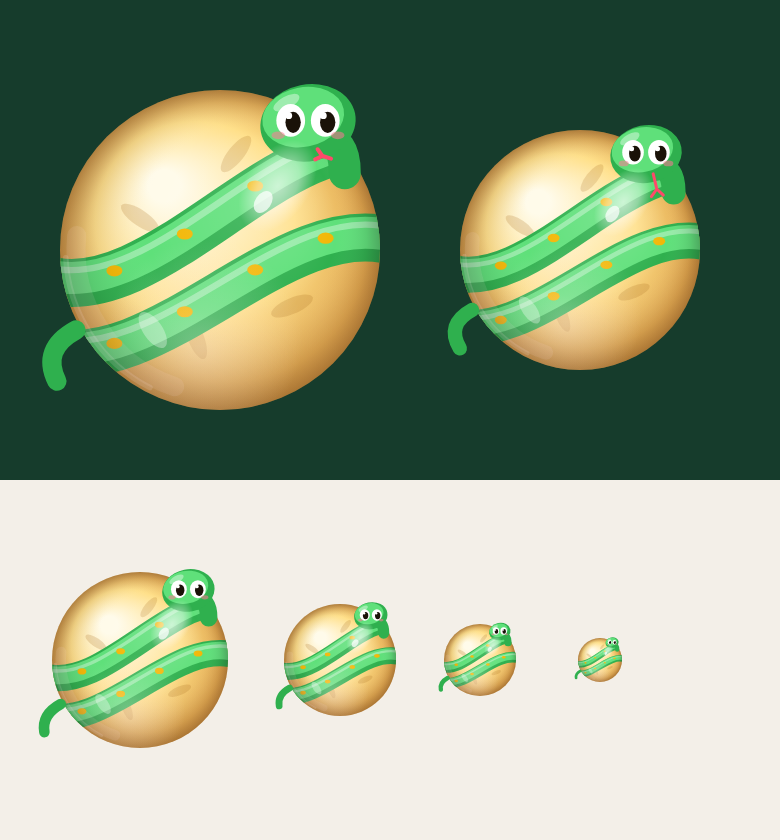
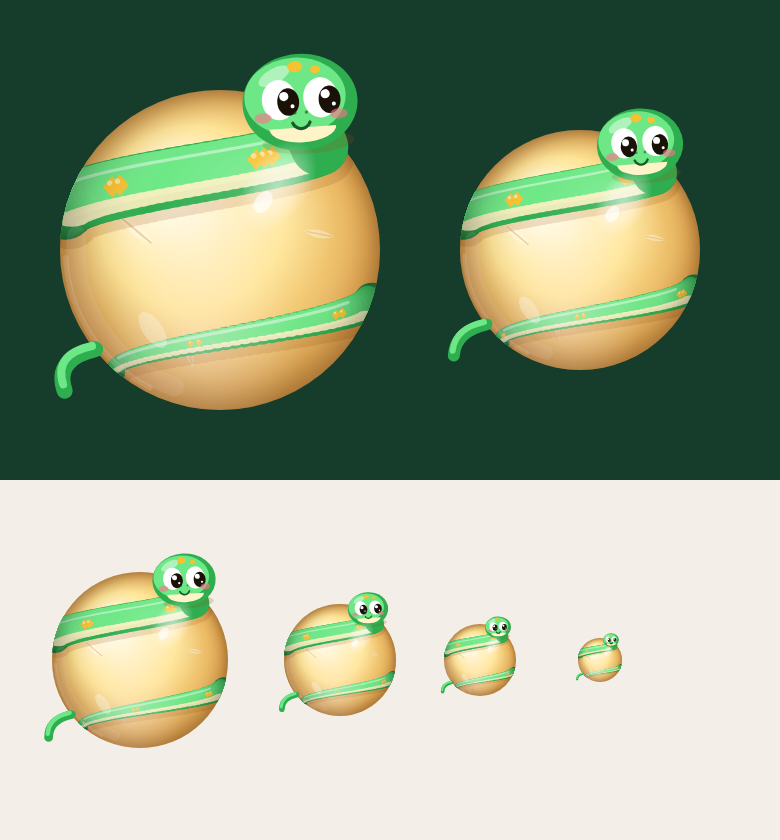
Monde 6 : ballon Bébé serpent v2 (vraie spirale autour du ballon, corps qui s'affine, ventre, écailles qui glissent, tête posée, queue qui frétille)
Claude-Session: https://claude.ai/code/session_01NEC92qwxswvqqiEaD4C6hh

diff --git a/index.html b/index.html
@@ -14859,26 +14859,63 @@ const PERROQUET_SKIN = { id: 'perroquet', name: 'Le Perroquet', secret: true, du
     c.save(); c.translate(px, py); if (Math.sin(a + Math.PI / 2) < 0) c.scale(-1, 1); ara(1, flap, 1, true); c.restore(); }
 } };
 SKINS.push(PERROQUET_SKIN);
-/* ballon secret du Monde 6 : le Bébé serpent (enroulé autour du ballon, la tête dépasse en haut ; style du jeu) */
-const BEBE_SERPENT_SKIN = { id: 'bebe_serpent', name: 'Le Bébé serpent', secret: true, dust: '#7ae08a', gloss: .5,
-  paint: (c, r, t = 0) => {
-    const g = c.createRadialGradient(-r * .35, -r * .4, r * .1, 0, 0, r * 1.05); g.addColorStop(0, '#fffbea'); g.addColorStop(.55, '#ffe08a'); g.addColorStop(1, '#d8963a'); c.fillStyle = g; c.beginPath(); c.arc(0, 0, r, 0, TAU); c.fill();
+/* ballon secret du Monde 6 : le Bébé serpent. Son corps est une vraie spirale autour de la sphère : il passe derrière le bord du ballon
+   et revient plus haut, puis sa tête se pose sur le dessus. Écailles qui glissent, corps qui respire, yeux qui regardent autour. */
+const BEBE_SERPENT_SKIN = (() => {
+  const ss = k => { k = Math.max(0, Math.min(1, k)); return k * k * (3 - 2 * k); };
+  const mixc = (a, b, k) => { const A = parseInt(a.slice(1), 16), B = parseInt(b.slice(1), 16), m = sh => Math.round((A >> sh & 255) + ((B >> sh & 255) - (A >> sh & 255)) * k); return `rgb(${m(16)},${m(8)},${m(0)})`; };
+  const G0 = '#6ee886', G1 = '#2fae50', G2 = '#1a7a36';
+  /* points du corps : de la queue (en bas devant) à la nuque (en haut à droite devant) */
+  function body(r, t) { const pts = [], N = 150, T = 1.62;
+    for (let i = 0; i <= N; i++) { const s = i / N, lat = -1.12 + s * 1.82, lon = .95 - (1 - s) * T * TAU;
+      const cl = Math.cos(lat), x = r * cl * Math.sin(lon), y = -r * Math.sin(lat), z = cl * Math.cos(lon), th = r * (.04 + .14 * ss(s * 1.15) + .015 * Math.sin(t * .06 - s * 6) * s); /* il respire : une petite vague parcourt le corps */
+      pts.push({ x, y, z, th, s }); }
+    return pts; }
+  const paint = (c, r, t = 0) => {
+    /* le ballon : crème doré, petites feuilles claires bien dessinées */
+    const g = c.createRadialGradient(-r * .35, -r * .4, r * .1, 0, 0, r * 1.05); g.addColorStop(0, '#fffcee'); g.addColorStop(.5, '#ffe596'); g.addColorStop(1, '#dc9a3e'); c.fillStyle = g; c.beginPath(); c.arc(0, 0, r, 0, TAU); c.fill();
     c.save(); c.beginPath(); c.arc(0, 0, r, 0, TAU); c.clip();
-    /* petites feuilles en motif */ c.fillStyle = 'rgba(170,110,30,0.22)'; for (const [x, y, a] of [[-.5, -.2, .6], [.45, .35, -.4], [-.15, .55, 1.2], [.1, -.6, -.9]]) { c.save(); c.translate(x * r, y * r); c.rotate(a); c.beginPath(); c.ellipse(0, 0, r * .14, r * .05, 0, 0, TAU); c.fill(); c.restore(); }
-    /* le corps : deux tours en ruban autour du ballon (on voit le devant) */ const band = (y0, y1, wv) => { c.beginPath(); c.moveTo(-r * 1.1, y0 * r); c.bezierCurveTo(-r * .4, (y0 + wv) * r, r * .4, (y1 - wv) * r, r * 1.1, y1 * r); };
-    for (const [y0, y1, wv] of [[.62, -.05, .22], [.18, -.62, .22]]) { band(y0, y1, wv); c.strokeStyle = '#2fb04e'; c.lineWidth = r * .3; c.lineCap = 'round'; c.stroke(); band(y0 - .03, y1 - .03, wv); c.strokeStyle = '#5fe07a'; c.lineWidth = r * .2; c.stroke();
-      band(y0 - .08, y1 - .08, wv); c.strokeStyle = 'rgba(255,255,255,0.35)'; c.lineWidth = r * .04; c.stroke();
-      for (let i = 1; i < 5; i++) { const u = i / 5, x = -r * 1.1 + u * r * 2.2, y = r * ((1 - u) * (1 - u) * (1 - u) * y0 + 3 * (1 - u) * (1 - u) * u * (y0 + wv) + 3 * (1 - u) * u * u * (y1 - wv) + u * u * u * y1); c.fillStyle = '#f2b705'; c.beginPath(); c.ellipse(x, y - r * .03, r * .05, r * .035, 0, 0, TAU); c.fill(); } }
-    c.restore(); },
-  after: (c, r, t = 0) => {
-    /* bout de queue qui frétille en bas à gauche */ const wq = Math.sin(t * .12) * r * .06; c.strokeStyle = '#2fb04e'; c.lineWidth = r * .12; c.lineCap = 'round'; c.beginPath(); c.moveTo(-r * .9, r * .5); c.quadraticCurveTo(-r * 1.12, r * .62, -r * 1.06 + wq, r * .82); c.stroke();
-    /* la tête qui dépasse en haut à droite */ const bob = Math.sin(t * .05) * r * .03, hx = r * .55, hy = -r * .82 + bob, hs = r * .3;
-    c.strokeStyle = '#2fb04e'; c.lineWidth = r * .2; c.beginPath(); c.moveTo(r * .78, -r * .48); c.quadraticCurveTo(r * .78, -r * .7, hx + hs * .3, hy + hs * .4); c.stroke();
-    c.fillStyle = '#2fb04e'; c.beginPath(); c.ellipse(hx, hy, hs, hs * .8, -.2, 0, TAU); c.fill(); c.fillStyle = '#5fe07a'; c.beginPath(); c.ellipse(hx - hs * .1, hy - hs * .12, hs * .86, hs * .62, -.2, 0, TAU); c.fill();
-    c.fillStyle = 'rgba(255,255,255,0.4)'; c.beginPath(); c.ellipse(hx - hs * .45, hy - hs * .42, hs * .3, hs * .13, -.5, 0, TAU); c.fill();
-    const bl = (t % 160) < 6; for (const ex of [-.36, .36]) { const x = hx + ex * hs, y = hy - hs * .05; c.fillStyle = '#ffffff'; c.beginPath(); c.ellipse(x, y, hs * .3, bl ? hs * .04 : hs * .34, 0, 0, TAU); c.fill(); if (!bl) { c.fillStyle = '#1a1208'; c.beginPath(); c.ellipse(x + hs * .05, y + hs * .04, hs * .16, hs * .22, 0, 0, TAU); c.fill(); c.fillStyle = '#ffffff'; c.beginPath(); c.arc(x - hs * .04, y - hs * .1, hs * .07, 0, TAU); c.fill(); } }
-    c.fillStyle = 'rgba(255,120,150,0.55)'; c.beginPath(); c.ellipse(hx - hs * .62, hy + hs * .26, hs * .14, hs * .08, 0, 0, TAU); c.ellipse(hx + hs * .62, hy + hs * .26, hs * .14, hs * .08, 0, 0, TAU); c.fill();
-    if ((t % 110) < 22) { const q = Math.sin((t % 110) / 22 * Math.PI), tx = hx + hs * .2, ty = hy + hs * .55; c.strokeStyle = '#ff4a6a'; c.lineWidth = Math.max(.8, r * .025); c.beginPath(); c.moveTo(tx, ty); c.lineTo(tx + hs * .1, ty + hs * .5 * q); c.moveTo(tx + hs * .1, ty + hs * .5 * q); c.lineTo(tx - hs * .05, ty + hs * .75 * q); c.moveTo(tx + hs * .1, ty + hs * .5 * q); c.lineTo(tx + hs * .28, ty + hs * .7 * q); c.stroke(); } } };
+    for (const [x, y, a, s] of [[-.52, -.12, .7, 1], [.4, .5, -.5, .9], [-.2, .62, 1.3, .8], [.05, -.55, -.9, .85], [.62, -.1, .2, .7]]) { c.save(); c.translate(x * r, y * r); c.rotate(a); c.scale(s, s); c.fillStyle = 'rgba(255,255,255,0.35)';
+      c.beginPath(); c.moveTo(-r * .14, 0); c.quadraticCurveTo(0, -r * .07, r * .14, 0); c.quadraticCurveTo(0, r * .07, -r * .14, 0); c.fill(); c.strokeStyle = 'rgba(200,140,50,0.35)'; c.lineWidth = Math.max(.5, r * .012); c.beginPath(); c.moveTo(-r * .12, 0); c.lineTo(r * .12, 0); c.stroke(); c.restore(); }
+    /* ombre portée du corps sur le ballon */
+    const pts = body(r, t); c.fillStyle = 'rgba(150,80,20,0.18)'; c.beginPath(); for (const p of pts) if (p.z > 0) { c.moveTo(p.x + r * .03 + p.th * 1.05, p.y + r * .05); c.arc(p.x + r * .03, p.y + r * .05, p.th * 1.05, 0, TAU); } c.fill();
+    /* le corps : chaque anneau plus sombre près du bord (il tourne derrière), clair face à la lumière */
+    const vis = pts.filter(p => p.z > -.02).sort((a, b) => a.z - b.z);
+    for (const p of vis) { const k = Math.max(0, Math.min(1, p.z * 1.6)); c.fillStyle = mixc(G2, G1, k); c.beginPath(); c.arc(p.x, p.y, p.th, 0, TAU); c.fill(); }
+    for (const p of vis) { const k = Math.max(0, Math.min(1, p.z * 1.6)); if (k < .15) continue; c.fillStyle = mixc(G1, G0, k); c.beginPath(); c.arc(p.x - p.th * .16, p.y - p.th * .2, p.th * .74, 0, TAU); c.fill(); }
+    /* ventre crème le long du bas du corps */ c.fillStyle = 'rgba(255,241,194,0.9)'; c.beginPath(); for (const p of vis) { const k = p.z * 1.6; if (k < .3) continue; const x = p.x + p.th * .05, y = p.y + p.th * .52, w = p.th * .55, h = p.th * .22; c.moveTo(x + w, y); c.ellipse(x, y, w, h, 0, 0, TAU); } c.fill();
+    /* écailles dorées en losange, qui glissent doucement le long du corps */
+    const off = (t * .004) % 1; for (const p of vis) { const q = (p.s * 9 + off * 9) % 1; if (q > .12 || p.z < .25) continue; const sz = p.th * .5; c.fillStyle = '#f7c232'; c.beginPath(); c.moveTo(p.x, p.y - sz * .9); c.lineTo(p.x + sz * .6, p.y - sz * .2); c.lineTo(p.x, p.y + sz * .5); c.lineTo(p.x - sz * .6, p.y - sz * .2); c.closePath(); c.fill(); c.fillStyle = 'rgba(255,255,255,0.5)'; c.beginPath(); c.arc(p.x - sz * .15, p.y - sz * .45, sz * .18, 0, TAU); c.fill(); }
+    /* reflet en filet le long du corps */ c.strokeStyle = 'rgba(255,255,255,0.45)'; c.lineCap = 'round'; c.lineWidth = Math.max(.6, r * .02); c.beginPath(); let on = false; for (const p of pts) { if (p.z > .35) { const x = p.x - p.th * .35, y = p.y - p.th * .55; on ? c.lineTo(x, y) : c.moveTo(x, y); on = true; } else on = false; } c.stroke();
+    c.restore(); };
+  const after = (c, r, t = 0) => {
+    const pts = body(r, t), e = pts[pts.length - 1];
+    /* le bout de la queue dépasse en bas à gauche et frétille */ { const w = Math.sin(t * .14) * r * .05, x0 = -r * .78, y0 = r * .62; c.strokeStyle = G1; c.lineCap = 'round'; c.lineWidth = r * .1; c.beginPath(); c.moveTo(x0, y0); c.quadraticCurveTo(x0 - r * .26, y0 + r * .06, x0 - r * .24 + w, y0 + r * .26); c.stroke();
+      c.strokeStyle = G0; c.lineWidth = r * .05; c.beginPath(); c.moveTo(x0 - r * .02, y0 - r * .02); c.quadraticCurveTo(x0 - r * .26, y0 + r * .03, x0 - r * .25 + w, y0 + r * .22); c.stroke(); }
+    /* la nuque sort du ballon et la tête vient se poser, menton sur le bord */
+    const bob = Math.sin(t * .05) * r * .025, hx = r * .5, hy = -r * .9 + bob, hs = r * .36;
+    for (let i = 0; i <= 14; i++) { const u = i / 14, x = e.x + (hx - r * .05 - e.x) * u, y = e.y + (hy + hs * .35 - e.y) * u - Math.sin(u * Math.PI) * r * .06, th = e.th * (1 - u * .12);
+      c.fillStyle = G1; c.beginPath(); c.arc(x, y, th, 0, TAU); c.fill(); c.fillStyle = G0; c.beginPath(); c.arc(x - th * .16, y - th * .2, th * .74, 0, TAU); c.fill(); }
+    /* tête ronde, un peu penchée */ c.save(); c.translate(hx, hy); c.rotate(-.12 + Math.sin(t * .021) * .06);
+    c.fillStyle = 'rgba(150,80,20,0.2)'; c.beginPath(); c.ellipse(hs * .1, hs * .7, hs * .8, hs * .2, 0, 0, TAU); c.fill();
+    c.fillStyle = G1; c.beginPath(); c.ellipse(0, 0, hs, hs * .84, 0, 0, TAU); c.fill(); c.fillStyle = G0; c.beginPath(); c.ellipse(-hs * .08, -hs * .1, hs * .88, hs * .68, 0, 0, TAU); c.fill();
+    c.fillStyle = '#fff3c8'; c.beginPath(); c.ellipse(hs * .02, hs * .44, hs * .58, hs * .26, 0, 0, Math.PI); c.fill(); /* menton crème */
+    c.fillStyle = 'rgba(255,255,255,0.45)'; c.beginPath(); c.ellipse(-hs * .42, -hs * .48, hs * .3, hs * .13, -.45, 0, TAU); c.fill();
+    c.fillStyle = '#f7c232'; for (const [x, y, s2] of [[-.05, -.62, .13], [.3, -.55, .09], [-.38, -.3, .07]]) { c.beginPath(); c.ellipse(x * hs, y * hs, s2 * hs, s2 * hs * .75, 0, 0, TAU); c.fill(); }
+    /* grands yeux : ils regardent autour, clignent ; deux reflets */
+    const bl = (t % 170) < 6, lk = Math.sin(t * .013) * .12, lkY = Math.cos(t * .017) * .05;
+    for (const ex of [-.36, .36]) { const x = ex * hs, y = -hs * .06; c.fillStyle = '#ffffff'; c.beginPath(); c.ellipse(x, y, hs * .3, bl ? hs * .05 : hs * .35, 0, 0, TAU); c.fill();
+      if (!bl) { const px = x + (lk + .04) * hs, py = y + (lkY + .05) * hs; c.fillStyle = '#1a1208'; c.beginPath(); c.ellipse(px, py, hs * .19, hs * .24, 0, 0, TAU); c.fill();
+        c.fillStyle = '#ffffff'; c.beginPath(); c.arc(px - hs * .07, py - hs * .1, hs * .08, 0, TAU); c.fill(); c.beginPath(); c.arc(px + hs * .07, py + hs * .08, hs * .035, 0, TAU); c.fill(); } }
+    c.fillStyle = 'rgba(255,110,140,0.6)'; c.beginPath(); c.ellipse(-hs * .66, hs * .24, hs * .15, hs * .09, 0, 0, TAU); c.ellipse(hs * .66, hs * .24, hs * .15, hs * .09, 0, 0, TAU); c.fill();
+    /* petit sourire + narines */ c.strokeStyle = '#1a5a2a'; c.lineWidth = Math.max(.6, hs * .055); c.lineCap = 'round'; c.beginPath(); c.arc(0, hs * .3, hs * .16, .35, Math.PI - .35); c.stroke();
+    c.fillStyle = 'rgba(20,70,30,0.55)'; c.beginPath(); c.arc(-hs * .1, hs * .18, hs * .03, 0, TAU); c.arc(hs * .1, hs * .18, hs * .03, 0, TAU); c.fill();
+    /* la langue fourchue sort de temps en temps */ const tq = t % 120; if (tq < 24) { const q = Math.sin(tq / 24 * Math.PI), w = Math.sin(t * 1.3) * hs * .05, ty = hs * .44; c.strokeStyle = '#ff4a6a'; c.lineWidth = Math.max(.7, hs * .06);
+      c.beginPath(); c.moveTo(0, ty); c.lineTo(w, ty + hs * .32 * q); c.moveTo(w, ty + hs * .32 * q); c.lineTo(w - hs * .1, ty + hs * .46 * q); c.moveTo(w, ty + hs * .32 * q); c.lineTo(w + hs * .1, ty + hs * .46 * q); c.stroke(); }
+    c.restore(); };
+  return { id: 'bebe_serpent', name: 'Le Bébé serpent', secret: true, dust: '#7ae08a', gloss: .45, paint, after };
+})();
+
 SKINS.push(BEBE_SERPENT_SKIN);
 
 if (window.__BOT) window.__NAV = { story: w => { showScreen('story'); storyWorld = w; renderStory(null, false); }, intro: (w, i) => showLevelIntro(w, i) };
